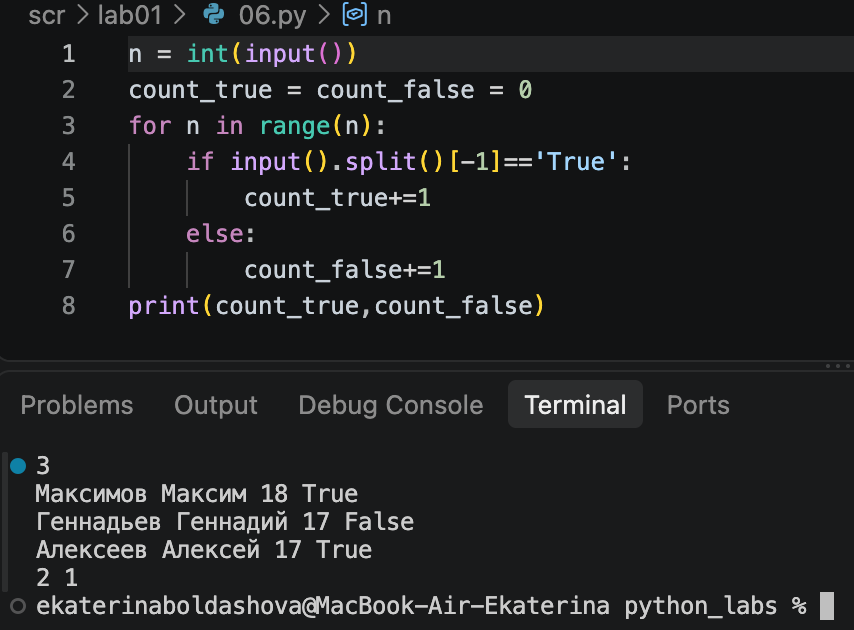
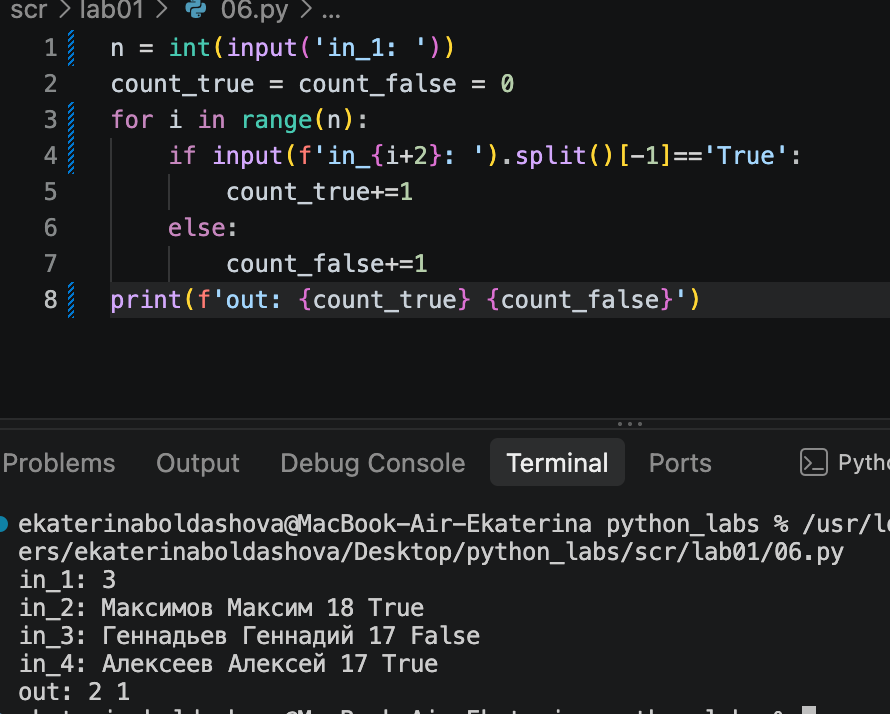
fixed 6

diff --git a/scr/lab02/arrays.py b/scr/lab02/arrays.py
@@ -1,0 +1,25 @@
+def min_max(nums: list[float| int]) -> tuple[float|int, float|int]:
+    '''кортеж из минимального и максимального элементов списка
+    min_max([1,2,3,4]) -> (1,4)
+    '''
+    
+    if not nums:
+        raise ValueError("The list is empty.")
+    return min(nums), max(nums)
+
+
+def unique_sorted(nums: list[float | int]) -> list[float | int]:
+    if not nums:
+        raise ValueError("The list is empty.")
+    return sorted(list(set(nums)))
+
+    
+def flatten(mat: list[list | tuple]) -> list:
+    res=[]
+    for row in mat:
+        if type(row) not in [list, tuple]:
+            raise TypeError("Row is not list or tuple")
+        res.extend(row)
+    return res
+
+print(flatten([[1,2,3],1]))

diff --git a/scr/lab01/06.py b/scr/lab01/06.py
@@ -1,8 +1,8 @@
-n = int(input())
+n = int(input('in_1: '))
 count_true = count_false = 0
-for n in range(n):
-    if input().split()[-1]=='True':
+for i in range(n):
+    if input(f'in_{i+2}: ').split()[-1]=='True':
         count_true+=1
     else:
         count_false+=1
-print(count_true,count_false)
+print(f'out: {count_true} {count_false}')

diff --git a/scr/lab01/README.md b/scr/lab01/README.md
@@ -27,9 +27,9 @@
 
 ### Задание 6
 
-считывает последнее слово в строках и считает
+считывает последнее слово в строках и считает + оформлены номера ввода по порядку(in_...)
 
-![alt text](../../images/lab01/06.png)
+![alt text](image.png)
 
 ### Задание 7
 
